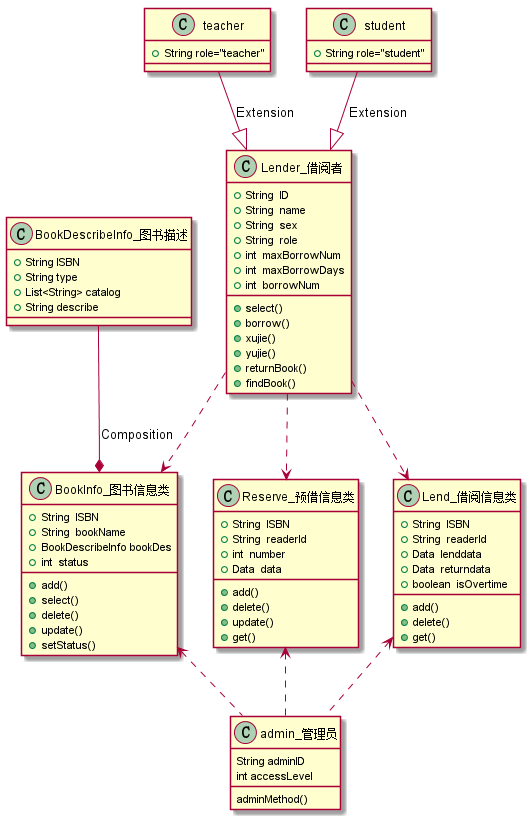
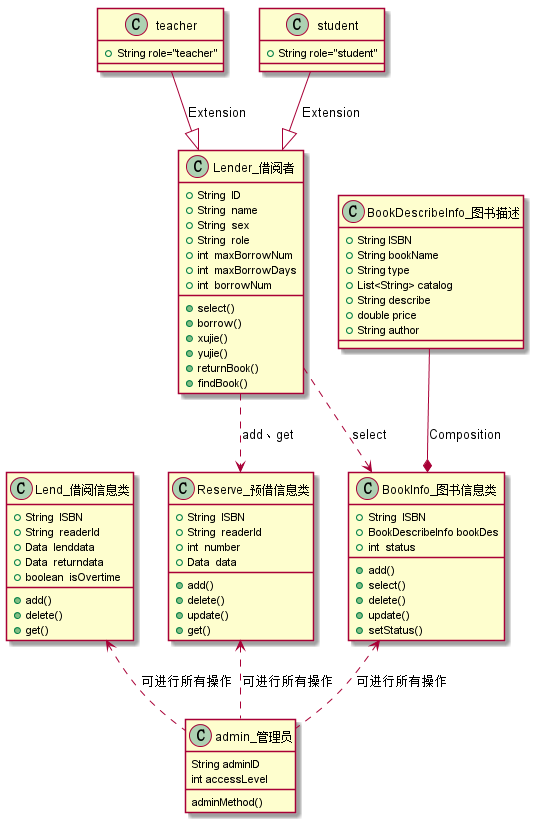
test3_v2

diff --git a/test3/README.md b/test3/README.md
@@ -61,6 +61,8 @@ class BookDescribeInfo_图书描述{
     +String type
     +List<String> catalog
     +String describe
+    +double price
+    +String author
 }
 class teacher{
     +String role="teacher"
@@ -76,12 +78,11 @@ class admin_管理员{
 teacher --|> Lender_借阅者:Extension
 student --|> Lender_借阅者:Extension
 BookDescribeInfo_图书描述 --* BookInfo_图书信息类:Composition
-Lender_借阅者 ..> BookInfo_图书信息类
-Lender_借阅者 ..> Reserve_预借信息类
-Lender_借阅者 ..> Lend_借阅信息类
-BookInfo_图书信息类 <.. admin_管理员
-Reserve_预借信息类 <.. admin_管理员
-Lend_借阅信息类  <.. admin_管理员
+Lender_借阅者 ..> BookInfo_图书信息类:select
+Lender_借阅者 ..> Reserve_预借信息类:add、get
+BookInfo_图书信息类 <.. admin_管理员:可进行所有操作
+Reserve_预借信息类 <.. admin_管理员:可进行所有操作
+Lend_借阅信息类  <.. admin_管理员:可进行所有操作
 @enduml
 ```
 
@@ -91,22 +92,10 @@ Lend_借阅信息类  <.. admin_管理员
 
 ### 1.3. 类图说明：
 ```
-图书管理系统能够对图书进行注册登记，也就是将图书的基本信息
-（如编号、书名、价格、作者等）预先存入数据库中，供以后检索，
-并且能够对借阅人进行注册登记，包括记录借阅人的姓名、编号、
-班级、年龄、性别、地址、电话等信息。同时，图书管理系统提高
-方便的查询方法。如以书名、作者、出版社、出版时间等信息进行
-图书检索，并能反映出图书的借阅情况；以借阅人编号对借阅人信
-息进行检索；以出版社名称查询出版社联系方式等信息。图书管理
-系统提供对书籍进行预订的功能，也提供旧书销毁功能，对于淘汰、
-损坏、丢失的书名可及时对数据库进行修改。图书管理系统能够对
-使用该管理系统的用户进行管理，按照不同的工作职能提供不同的
-功能授权。总的来说，图书管理系统主要包含下列功能。  
-1）读者管理：读者信息的制定、输入、修改、查询，包括种类、性别、借
-	书数量、借书期限、备注等。  
-2）书籍管理：书籍基本信息制定、输入、修改、查询，包括书籍编号、类别、关键词、备注。  
-3）借阅管理：包括借书、还书、预订书籍、续借、查询书籍、过期处理和书籍丢失后的处理。  
-4）系统管理：包括用户权限管理、数据管理和自动借还机的管理。
+Lender_借阅者有两个子类分别是teacher和student
+BookDescribeInfo_图书描述是BookInfo_图书信息类的一部分
+lender和admin可以对图书信息类、预借信息类、借阅信息类进行操作但是操作的权限不同
+比如：lender只能对BookInfo进行select操作，但是管理员能对其进行更多的删改添加操作
 ```
 
 
